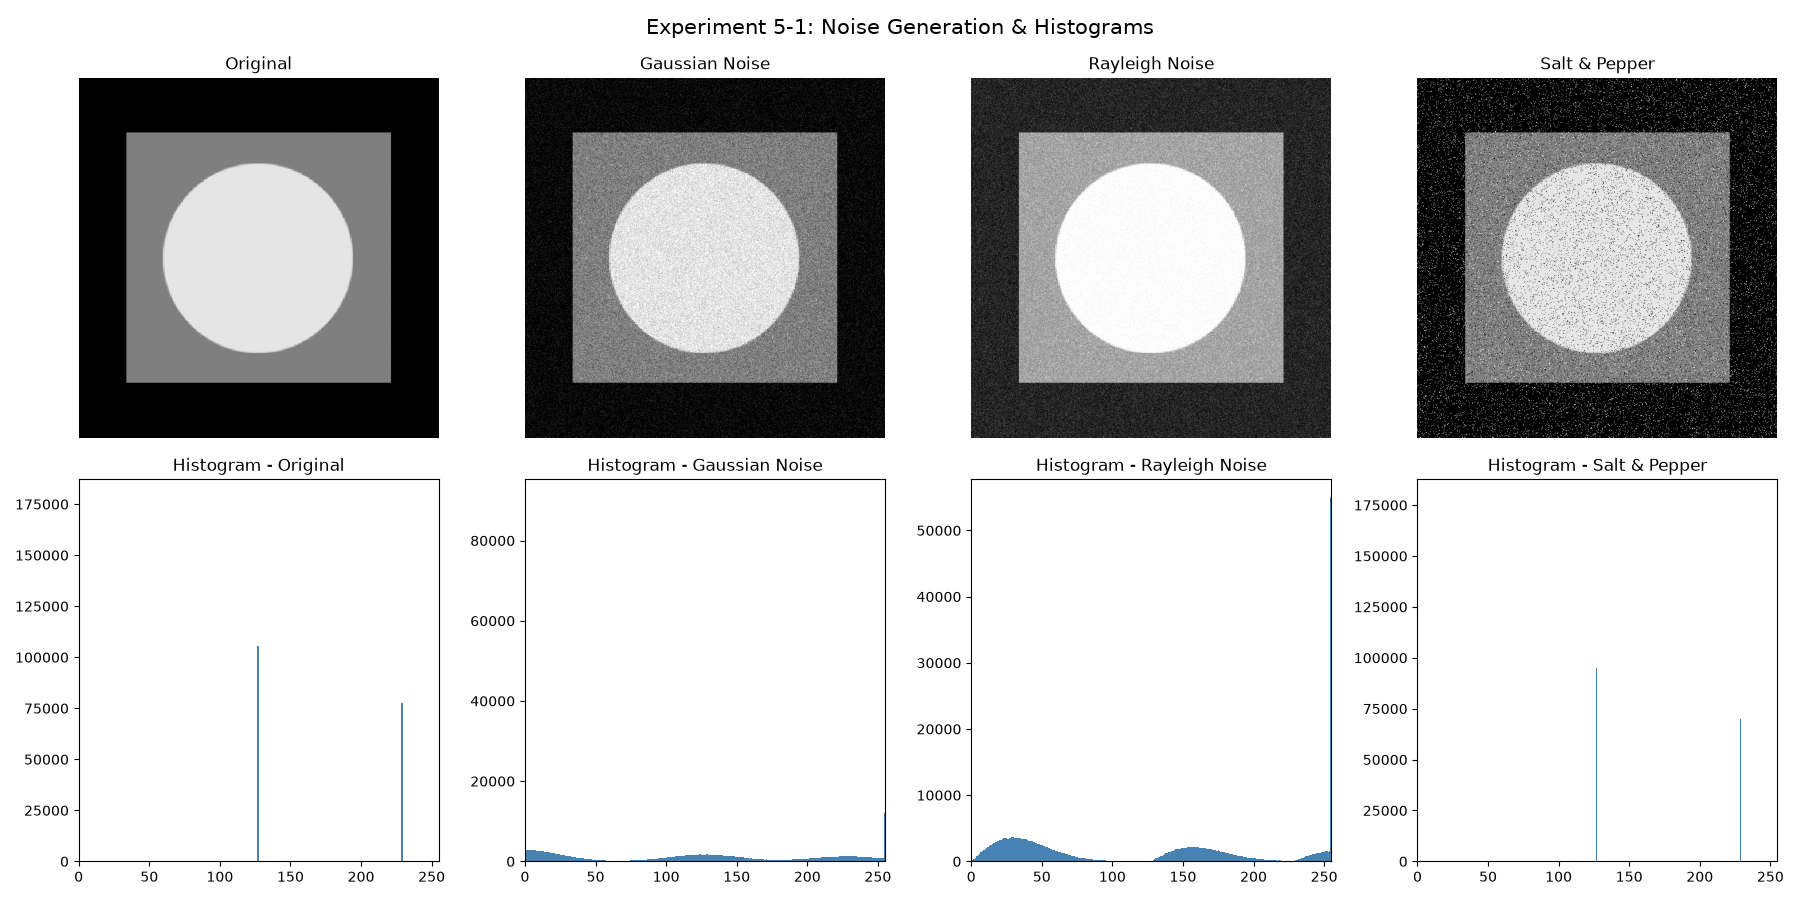
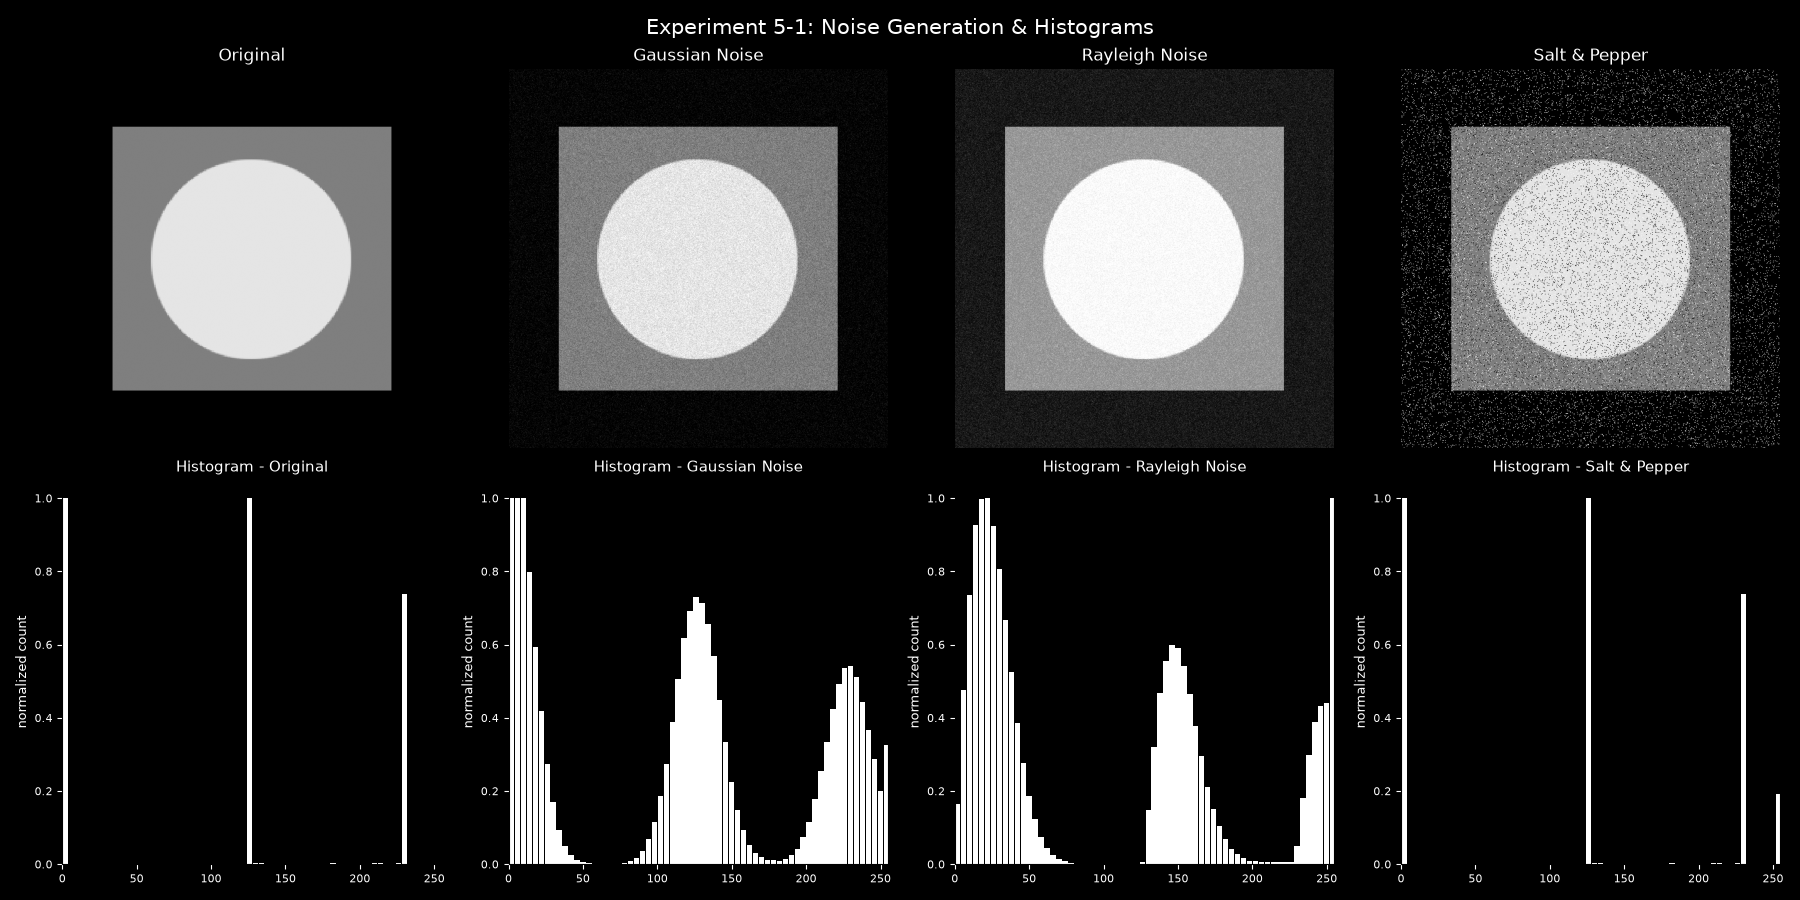
xiugai5-1

diff --git a/tyre_client/src/algorithms/test_restoration.py b/tyre_client/src/algorithms/test_restoration.py
@@ -58,8 +58,8 @@ def main():
 
     # 分别生成三种噪声图像
     np.random.seed(42)  # 固定随机种子，保证结果可复现
-    noisy_gauss = add_gaussian_noise(img_51, mean=0, sigma=25)
-    noisy_rayleigh = add_rayleigh_noise(img_51, sigma=30)
+    noisy_gauss = add_gaussian_noise(img_51, mean=0, sigma=15)
+    noisy_rayleigh = add_rayleigh_noise(img_51, sigma=20)
     noisy_sp = add_salt_pepper_noise(img_51, pa=0.05, pb=0.05)
 
     # 计算各噪声图像的直方图（按顺序存放，方便与图像一一对应）
@@ -80,22 +80,43 @@ def main():
     print(f"    噪声图像已保存到: {output_dir}")
 
     # 绘图：上排为图像，下排为对应直方图
-    fig, axes = plt.subplots(2, 4, figsize=(18, 9))
-    fig.suptitle('Experiment 5-1: Noise Generation & Histograms', fontsize=15)
+    fig, axes = plt.subplots(2, 4, figsize=(18, 9), facecolor='black')
+    fig.suptitle('Experiment 5-1: Noise Generation & Histograms', fontsize=15, color='white')
 
     imgs = [img_51, noisy_gauss, noisy_rayleigh, noisy_sp]
     names = ['Original', 'Gaussian Noise', 'Rayleigh Noise', 'Salt & Pepper']
+
+    def _norm_hist(h, bins=64):
+        """
+        统计灰度直方图并归一化：
+          - 以"中间区域的最大峰"为归一化基准（排除紧贴边界 0/255 的堆积柱），
+            使主要分布的峰顶满纵轴，分布形状清晰饱满；
+          - 超过 1.0 的边界堆积柱裁剪到 1.0。
+        （测试图背景为大面积灰度0，加噪后在0处堆积，若直接按全局最大值归一化会把
+          中间的主峰压得很矮，故采用此归一化方式以便观察分布形状）
+        """
+        cnt = np.histogram(np.clip(h, 0, 255), bins=bins, range=(0, 256))[0].astype(np.float64)
+        inner_max = cnt[2:-2].max()
+        base = inner_max if inner_max > 0 else cnt.max()
+        return np.clip(cnt / base, 0, 1.0)
+
     for k in range(4):
         axes[0, k].imshow(imgs[k], cmap='gray', vmin=0, vmax=255)
-        axes[0, k].set_title(names[k])
+        axes[0, k].set_title(names[k], color='white')
         axes[0, k].axis('off')
 
-        # 下排：对应的灰度直方图
-        axes[1, k].bar(range(256), hist_list[k], width=1.0, color='steelblue')
-        axes[1, k].set_title(f'Histogram - {names[k]}')
+        # 下排：对应的灰度直方图（64 个 bin 归一化后柱状绘制，黑底白柱、峰值顶满）
+        hn = _norm_hist(imgs[k])
+        bw = 256.0 / len(hn)                       # 每个柱对应的灰度宽度
+        axes[1, k].bar(np.arange(len(hn)) * bw + bw / 2, hn, width=bw * 0.9, color='white')
+        axes[1, k].set_title(f'Histogram - {names[k]}', color='white', fontsize=11)
         axes[1, k].set_xlim(0, 255)
+        axes[1, k].set_ylim(0, 1.05)               # 峰值顶到顶部
+        axes[1, k].set_facecolor('black')          # 黑色背景
+        axes[1, k].tick_params(colors='white', labelsize=8)
+        axes[1, k].set_ylabel('normalized count', color='white', fontsize=9)
     plt.tight_layout()
-    plt.savefig(os.path.join(output_dir, 'exp5_1_noise_hist.png'), dpi=100)
+    plt.savefig(os.path.join(output_dir, 'exp5_1_noise_hist.png'), dpi=100, facecolor='black')
     plt.show()
 
     # ==================== 5-2-1 自适应中值滤波 vs 7×7 中值滤波 ====================

diff --git a/tyre_client/src/algorithms/noise.py b/tyre_client/src/algorithms/noise.py
@@ -32,7 +32,7 @@ def add_salt_pepper_noise(image, p=0.05, seed=None):
 
 
 def compute_histogram(image, bins=256):
-    """灰度直方图: 返回每个灰度级的像素个数"""
+    """灰度直方图: 返回0~255每个灰度级的像素个数"""
     img = np.array(image)
     hist, _ = np.histogram(img.ravel(), bins=bins, range=(0, bins))
     return hist
